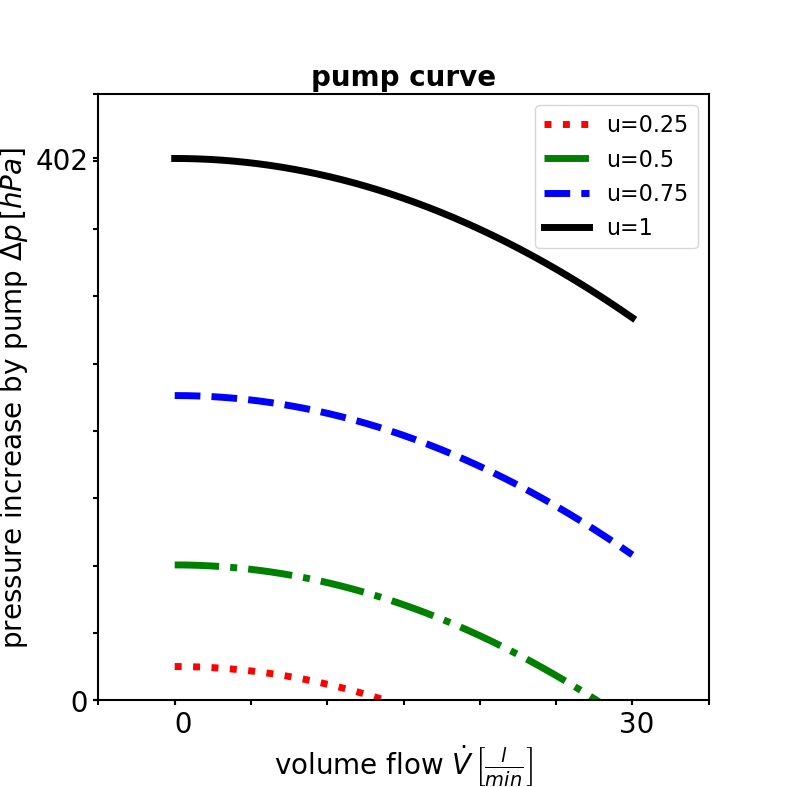
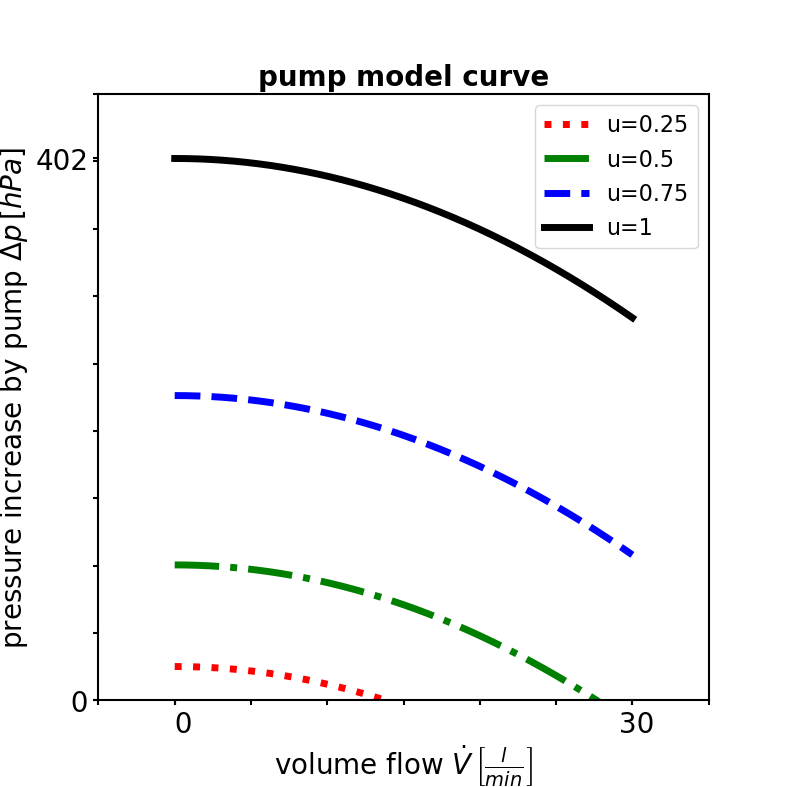
change titles of scheme visualization

Changed region(s): [[0.305, 0.061, 0.7014, 0.122]]

diff --git a/Z2_visualize_component_models_schemes.py b/Z2_visualize_component_models_schemes.py
@@ -304,7 +304,7 @@ if show_pump == True:
         
     #plt.plot(dotV_vec_test, np.zeros(len(dotV_vec_test)), color = 'k', linewidth=mythickness)
     
-    plt.title('pump curve', fontsize=myfontsize, fontweight='bold')
+    plt.title('pump model curve', fontsize=myfontsize, fontweight='bold')
     
     plt.gca().set_xlabel(r'volume flow $\dot{V}\/\left[ \frac{l}{min}\right]$', fontsize=myfontsize)
     plt.gca().set_ylabel(r'pressure increase by pump $\Delta p\/\left[hPa\right]$', fontsize=myfontsize)
@@ -331,7 +331,7 @@ if show_valve == True:
         
     #plt.plot(dotV_vec_test, np.zeros(len(dotV_vec_test)), color = 'k', linewidth=mythickness)
     my_set_ticks4(dotV_vec_test, Deltap_valve)
-    plt.title('control valve curve', fontsize=myfontsize, fontweight='bold')
+    plt.title('control valve model curve', fontsize=myfontsize, fontweight='bold')
     
     plt.gca().set_xlabel(r'volume flow $\dot{V}\/\left[ \frac{l}{min}\right]$', fontsize=myfontsize)
     plt.gca().set_ylabel(r'pressure head $\Delta p\/\left[hPa\right]$', fontsize=myfontsize)
@@ -399,8 +399,8 @@ if show_pipe_th == True:
     
 if show_hx == True:
     
-    #mysuptitle = r'heatexchanger'
-    #fig.suptitle(mysuptitle, fontsize=myfontsize, fontweight='bold')
+    mysuptitle = r'heatexchanger model curves'
+    
     
     # outlet temperatures over varying inlet temperatures with fixed volume flows
     X,Y = np.meshgrid(T_in_hx_test-273.15, T_in_hx_test-273.15)
@@ -411,13 +411,14 @@ if show_hx == True:
     cmap = mpl.cm.coolwarm
     mynorm = mpl.colors.Normalize(vmin=myMin, vmax=myMax)
     fig = plt.figure(num='Waermetauscher', figsize=myfigsize)
+    fig.suptitle(mysuptitle, fontsize=myfontsize, fontweight='bold')
 
     ax1 = fig.add_subplot(1,2,1, projection='3d')
     surf1 = ax1.plot_surface(X,Y,Z1-273.15,cmap=cmap, norm=mynorm, linewidth=0,antialiased=True)
     ax1.view_init(elev=15, azim=45)
     plt.tick_params(axis='both', labelsize=myfontsize)
     description1 = r'$\dot{V}_{HTNW}= %8.1f \frac{l}{min},\/\dot{V}_{PSM}= %8.1f \frac{l}{min}$'%(dotV_HTNW_const_test, dotV_PSM_const_test)
-    plt.title('over vayring inlet temperatures\n'+ description1, fontsize=myfontsize, fontweight='bold')
+    plt.title('varying inlet temperatures\n'+ description1, fontsize=myfontsize, fontweight='bold')
     plt.gca().set_xlabel(r'$T_{HTNW,in}\/\left[ ^\circ C\right]$', fontsize=myfontsize, labelpad=mylabelpad)
     plt.gca().set_ylabel(r'$T_{PSM,in}\/\left[ ^\circ C\right]$', fontsize=myfontsize, labelpad=mylabelpad)
     plt.gca().set_zlabel(r'$T_{PSM,out}\/\left[^\circ C\right]$', fontsize=myfontsize)
@@ -432,7 +433,7 @@ if show_hx == True:
     my_set_ticks(X,Y)
     plt.tick_params(axis='both', labelsize=myfontsize)
     description2 = r'$\vartheta_{HTNW,in}= %8.1f ^\circ C,\/\vartheta_{PSM,in}= %8.1f ^\circ C$'%(T_in_HTNW_const_test -273.15, T_in_PSM_const_test -273.15)
-    plt.title('over varying volume flows\n' + description2, fontsize=myfontsize, fontweight='bold')
+    plt.title('varying volume flows\n' + description2, fontsize=myfontsize, fontweight='bold')
     plt.gca().set_xlabel(r'$\dot{V}_{HTNW}\/\left[ \frac{l}{min}\right]$', fontsize=myfontsize, labelpad=mylabelpad)
     plt.gca().set_ylabel(r'$\dot{V}_{PSM}\/\left[ \frac{l}{min}\right]$', fontsize=myfontsize, labelpad=mylabelpad)
     plt.gca().set_zlabel(r'$T_{PSM,out}\/\left[^\circ C\right]$', fontsize=myfontsize)
